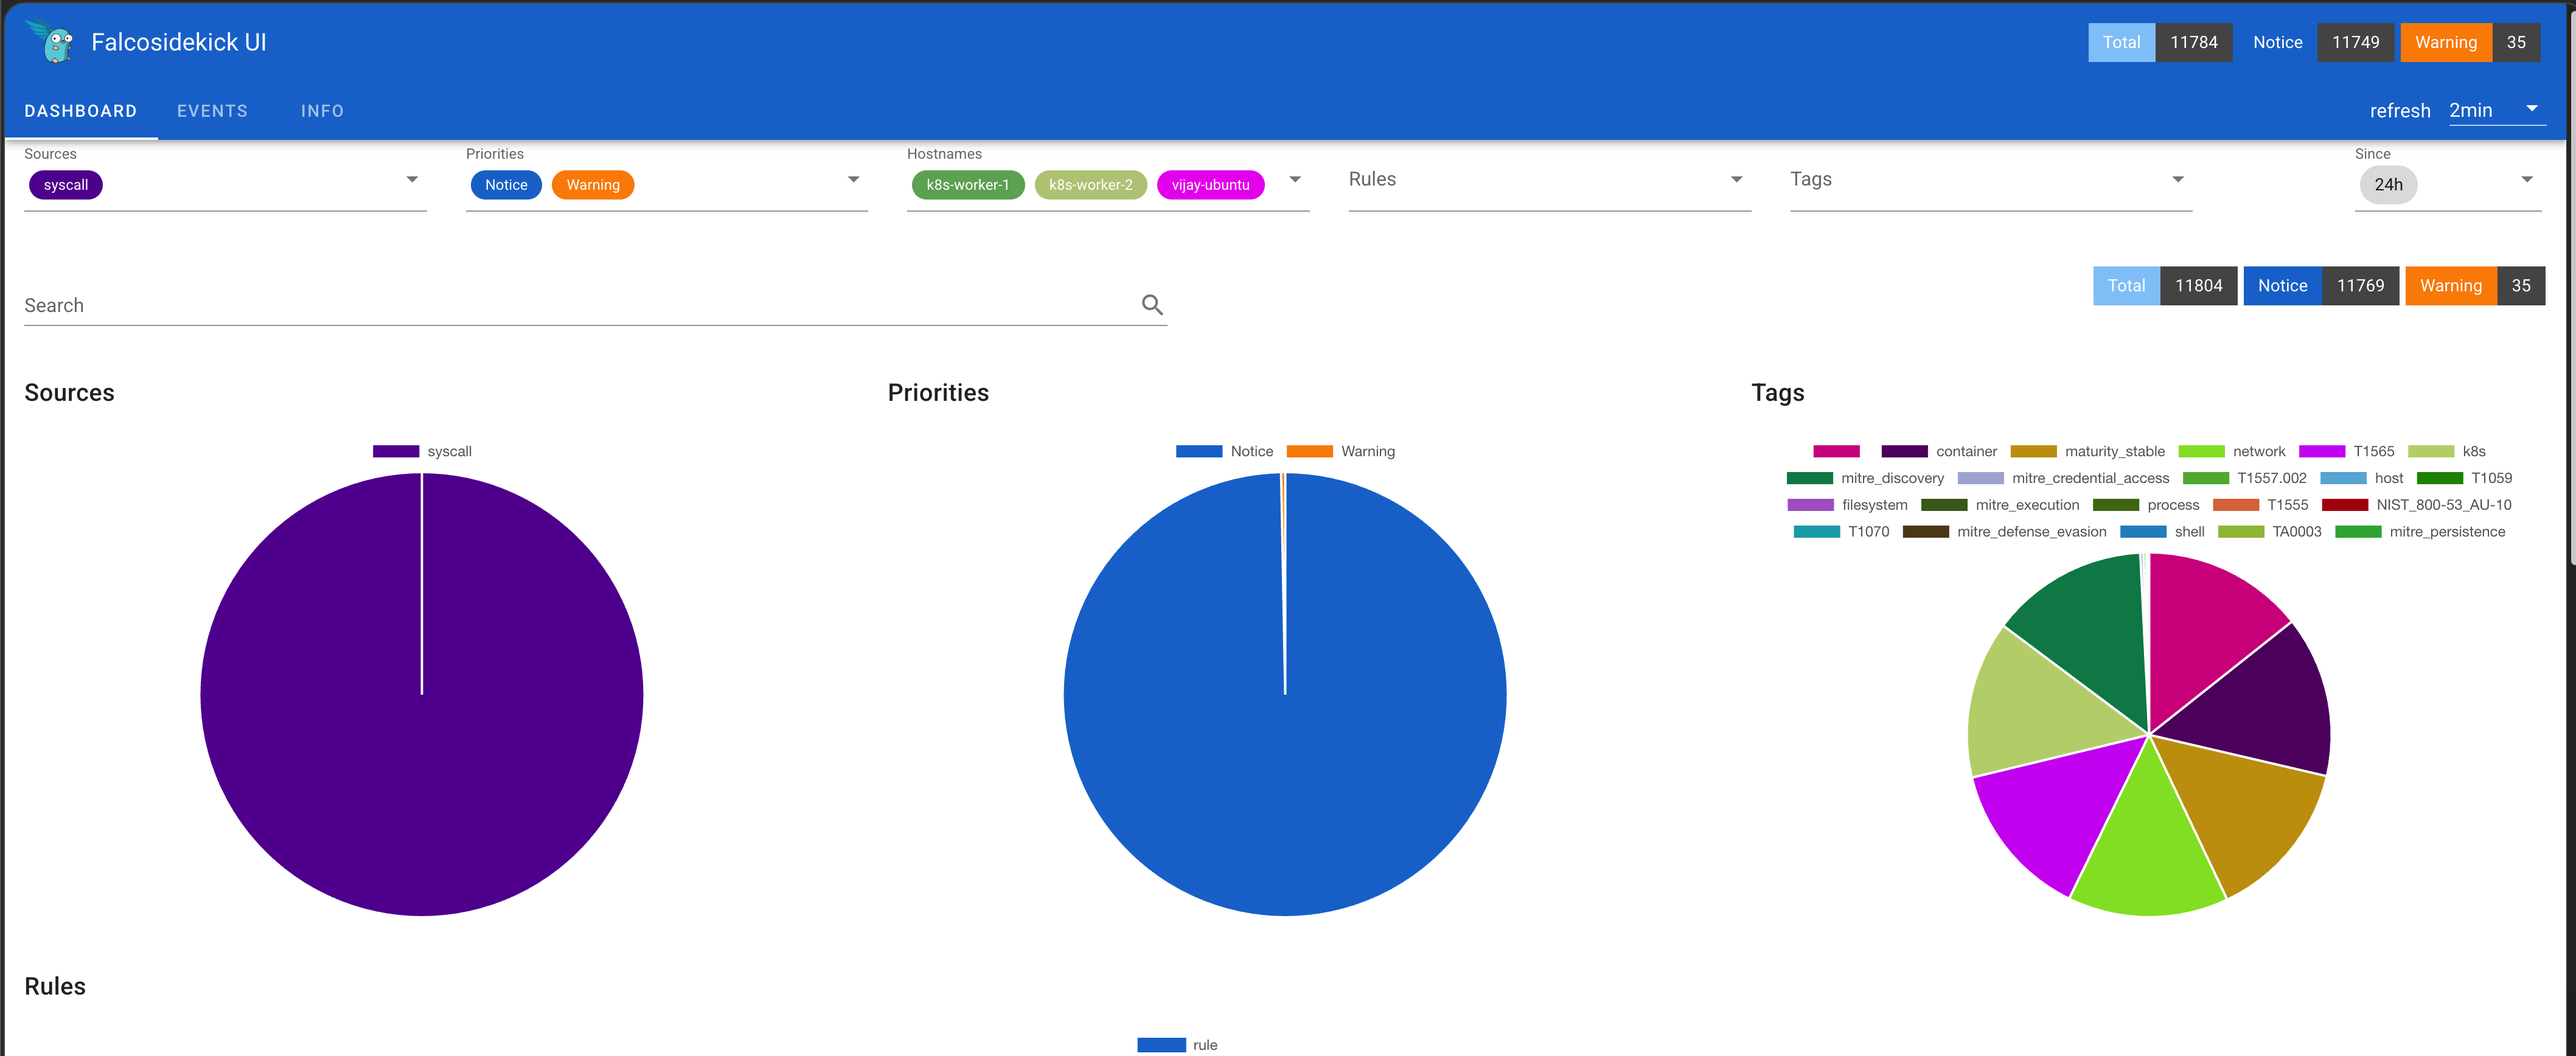
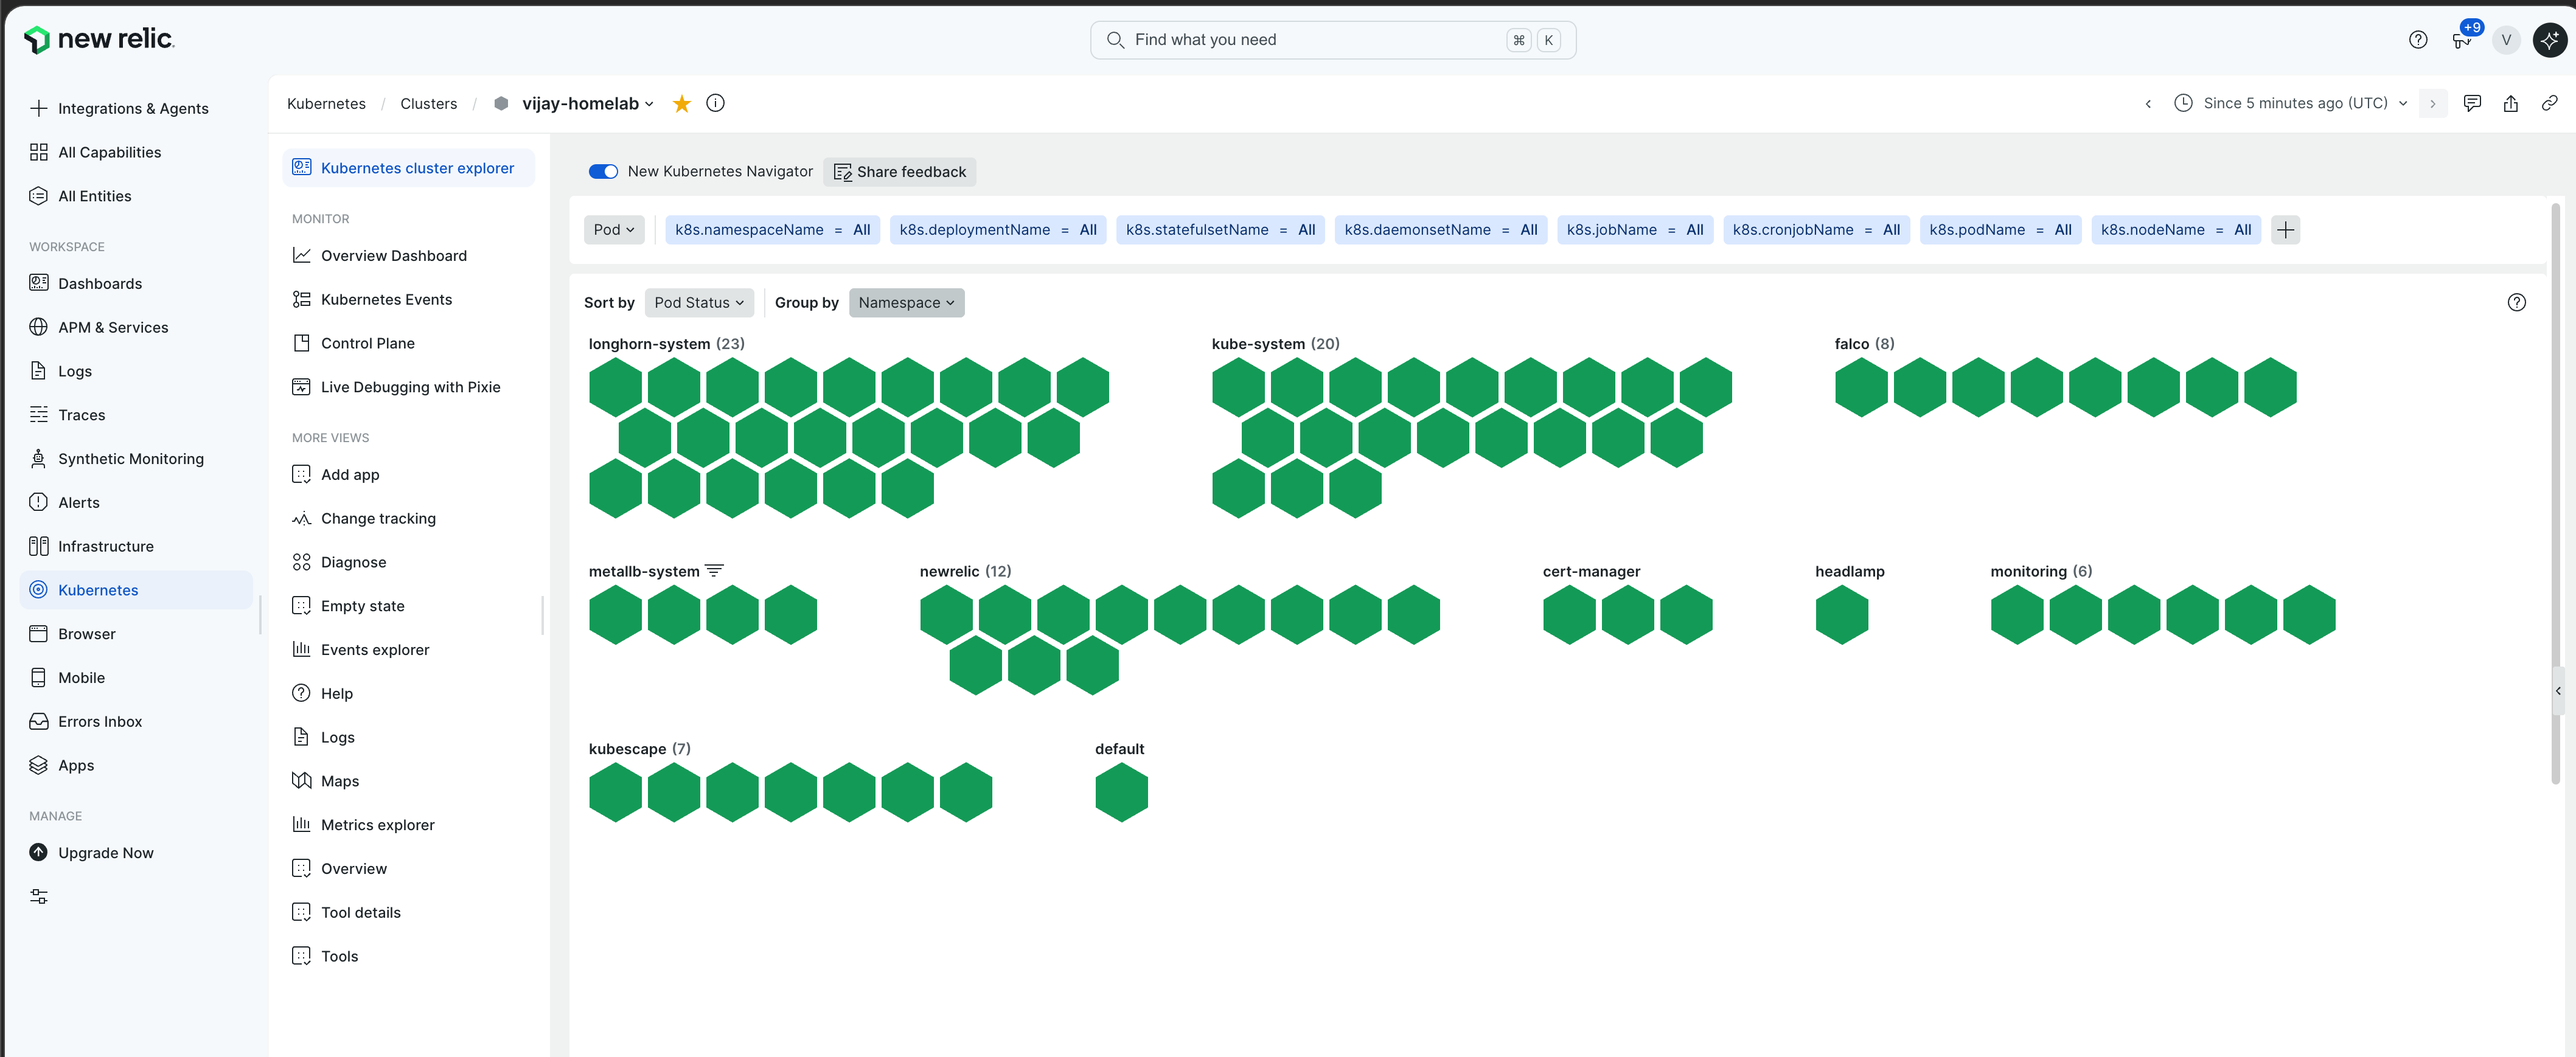
docs(readme): swap images back to correctly reference the desired actual files

diff --git a/README.md b/README.md
@@ -108,7 +108,7 @@ on my phone, over Tailscale. That's the kind of thing that makes a
 homelab feel real.
 
 ![New Relic Overview Dashboard](assets/new-relic-overview.png)
-![New Relic Kubernetes Explorer](assets/new-relic-kubernetes-explorer.png)
+![New Relic Kubernetes Explorer](assets/falcosidekick-ui.png)
 
 - **Installed via:** `newrelic-bundle` Helm chart in `newrelic` namespace
 - **Agent version:** 1.72.7 running on all 3 nodes
@@ -146,7 +146,7 @@ and within seconds Falco logs `Terminal shell in container detected`.
 That's not a synthetic test — that's the exact behaviour a real 
 attacker would trigger.
 
-![Falcosidekick UI](assets/falcosidekick-ui.png)
+![Falcosidekick UI](assets/new-relic-kubernetes-explorer.png)
 
 - **Installed via:** Helm in `falco` namespace
 - **Running as:** DaemonSet on both worker nodes
